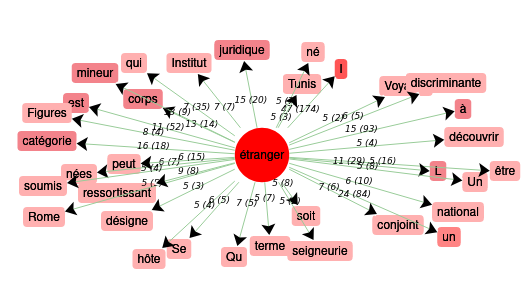
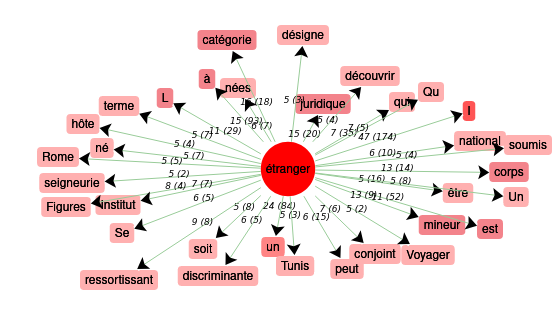
majfr

diff --git a/itrameurfr.html b/itrameurfr.html
@@ -97,10 +97,10 @@ href="https://cdn.jsdelivr.net/npm/bulma@0.9.4/css/bulma.min.css" />
                   <div class="hero-body">
                       <div class="container">
                       <h1 class="title">
-                      Itrameur
+                      Analyse Itrameur
                       </h1>
                       <h2 class="subtitle">
-                      Conception
+                      <i>Etranger</i>
                       </h2>
                       
                       </div>
@@ -110,17 +110,43 @@ href="https://cdn.jsdelivr.net/npm/bulma@0.9.4/css/bulma.min.css" />
                        
                        <div class="box">
                         <img src="images/fox2.jpg" width="35%"/>  
-                       <h2 class="title">Itrameur FR</h2>
+                       <h2 class="title">Corpus Français</h2>
                        <p> Pour permettre l'analyse de nos données sur Itrameur, nous avons du concatener nos fichiers textes extrait au préalable par le script ( cf à la partie scripts)</p>
                        <p> Le script qui nous a permis de concatener nos fichiers txt et de le nettoyer de caractères indésirables est itrameur.sh</p>
                        <p> pour sa bonne execution nous avons crée un dossier qui contiendra le fichier concatené</p>
+                       <p class="panel-heading">
+                        Bonne importation
+                      </p>
                          <img src="images/trameurfr1.png">
                          <p>L'importation du corpus s'est bien passée. Chaque cube dans la carte des sections corresponds à une page</p>
-                         <p> Cooccurent</p>
+                         <p class="panel-heading">
+                          Dictionnaire
+                        </p>
+                        <img src="images/dico.png">
+                         <p class="panel-heading">
+                          Cooccurent 
+                        </p>
                          <img src="images/trameurfr2.png">
-                        
-                       
-
+                        <p> Grâce à la cooccurence nous pouvons voir l'entourage du mot le plus fréquent. De ce fait cela nous permet de pouvoir cibler par la suite les mots clefs qui vont nous permettre de mieux voir l'image qu'a ce terme et comment il est perçu</p>
+                       <p>Le terme étranger est un terme qui a des contextes très divergents les uns des autres nous pouvons donc penser qu'il a plusieurs définitions au sein de la communauté</p>
+                       <p class="panel-heading">
+                        Concordance
+                      </p>
+                      <p>L'outil concordance nous permet de voir les contextes gauches et droits. Au vu du nombre d'occurence très élevé j'ai décidé de cibler les concordances avec les termes les plus empruntés autour du mot étranger. Pour ce faire je me suis aidée des données que m'a transmis la cooccurence</p>
+                      <img src="images/concordances.png">
+                      <p>Nous pouvons voir que le terme étranger est fortement lié au terme " discriminant", le terme discriminant est un terme perçu comme social, on peut donc voir que le mot étranger est un mot incrémenté dans la société qui peut avoir une connotation discriminante, en plus de cela nous avons aussi le terme "racisme" </p>
+                      <img src="images/concordances1.png">
+                      <p>Le terme étranger est également utilisé dans le cadre juridique nous pouvons voir qu'il peut être qualifié de ' catégorie juridique'. </p>
+                      <img src="images/concordances2.png">
+                      <p>Il nous a également semblé pertinnent de voir comment se comporter la mot étranger face au mot " designer", nous pouvons voir effectivement qu'étranger désigne de nombreuses de nombreuses entités différentes</p>
+                      <img src="images/concordances3.png">
+                   
+                      <p class="panel-heading">
+                        Ventilation
+                      </p>
+                      <img src="images/ventilation.png">
+                     <p>L'utilisation de l'outil ventilation nous permet de voir la fréquence absolue de différents termes rentrés dans le pôle. Pour étudier le terme étranger nous avons décider d'entrer ses différentes variantes : pluriel, singulier, utilitation d'une majuscule.</p> 
+                     <p>Nous pouvons voir que ce terme s'emploi très rarement avec une majuscule. Neanmoins le pluriel et le singulier semblent être utilisées à part égale. C'est donc un terme qui peut désigner un groupe comme une unité</p>
               </div>
                 </div>
                       <div class="column">
